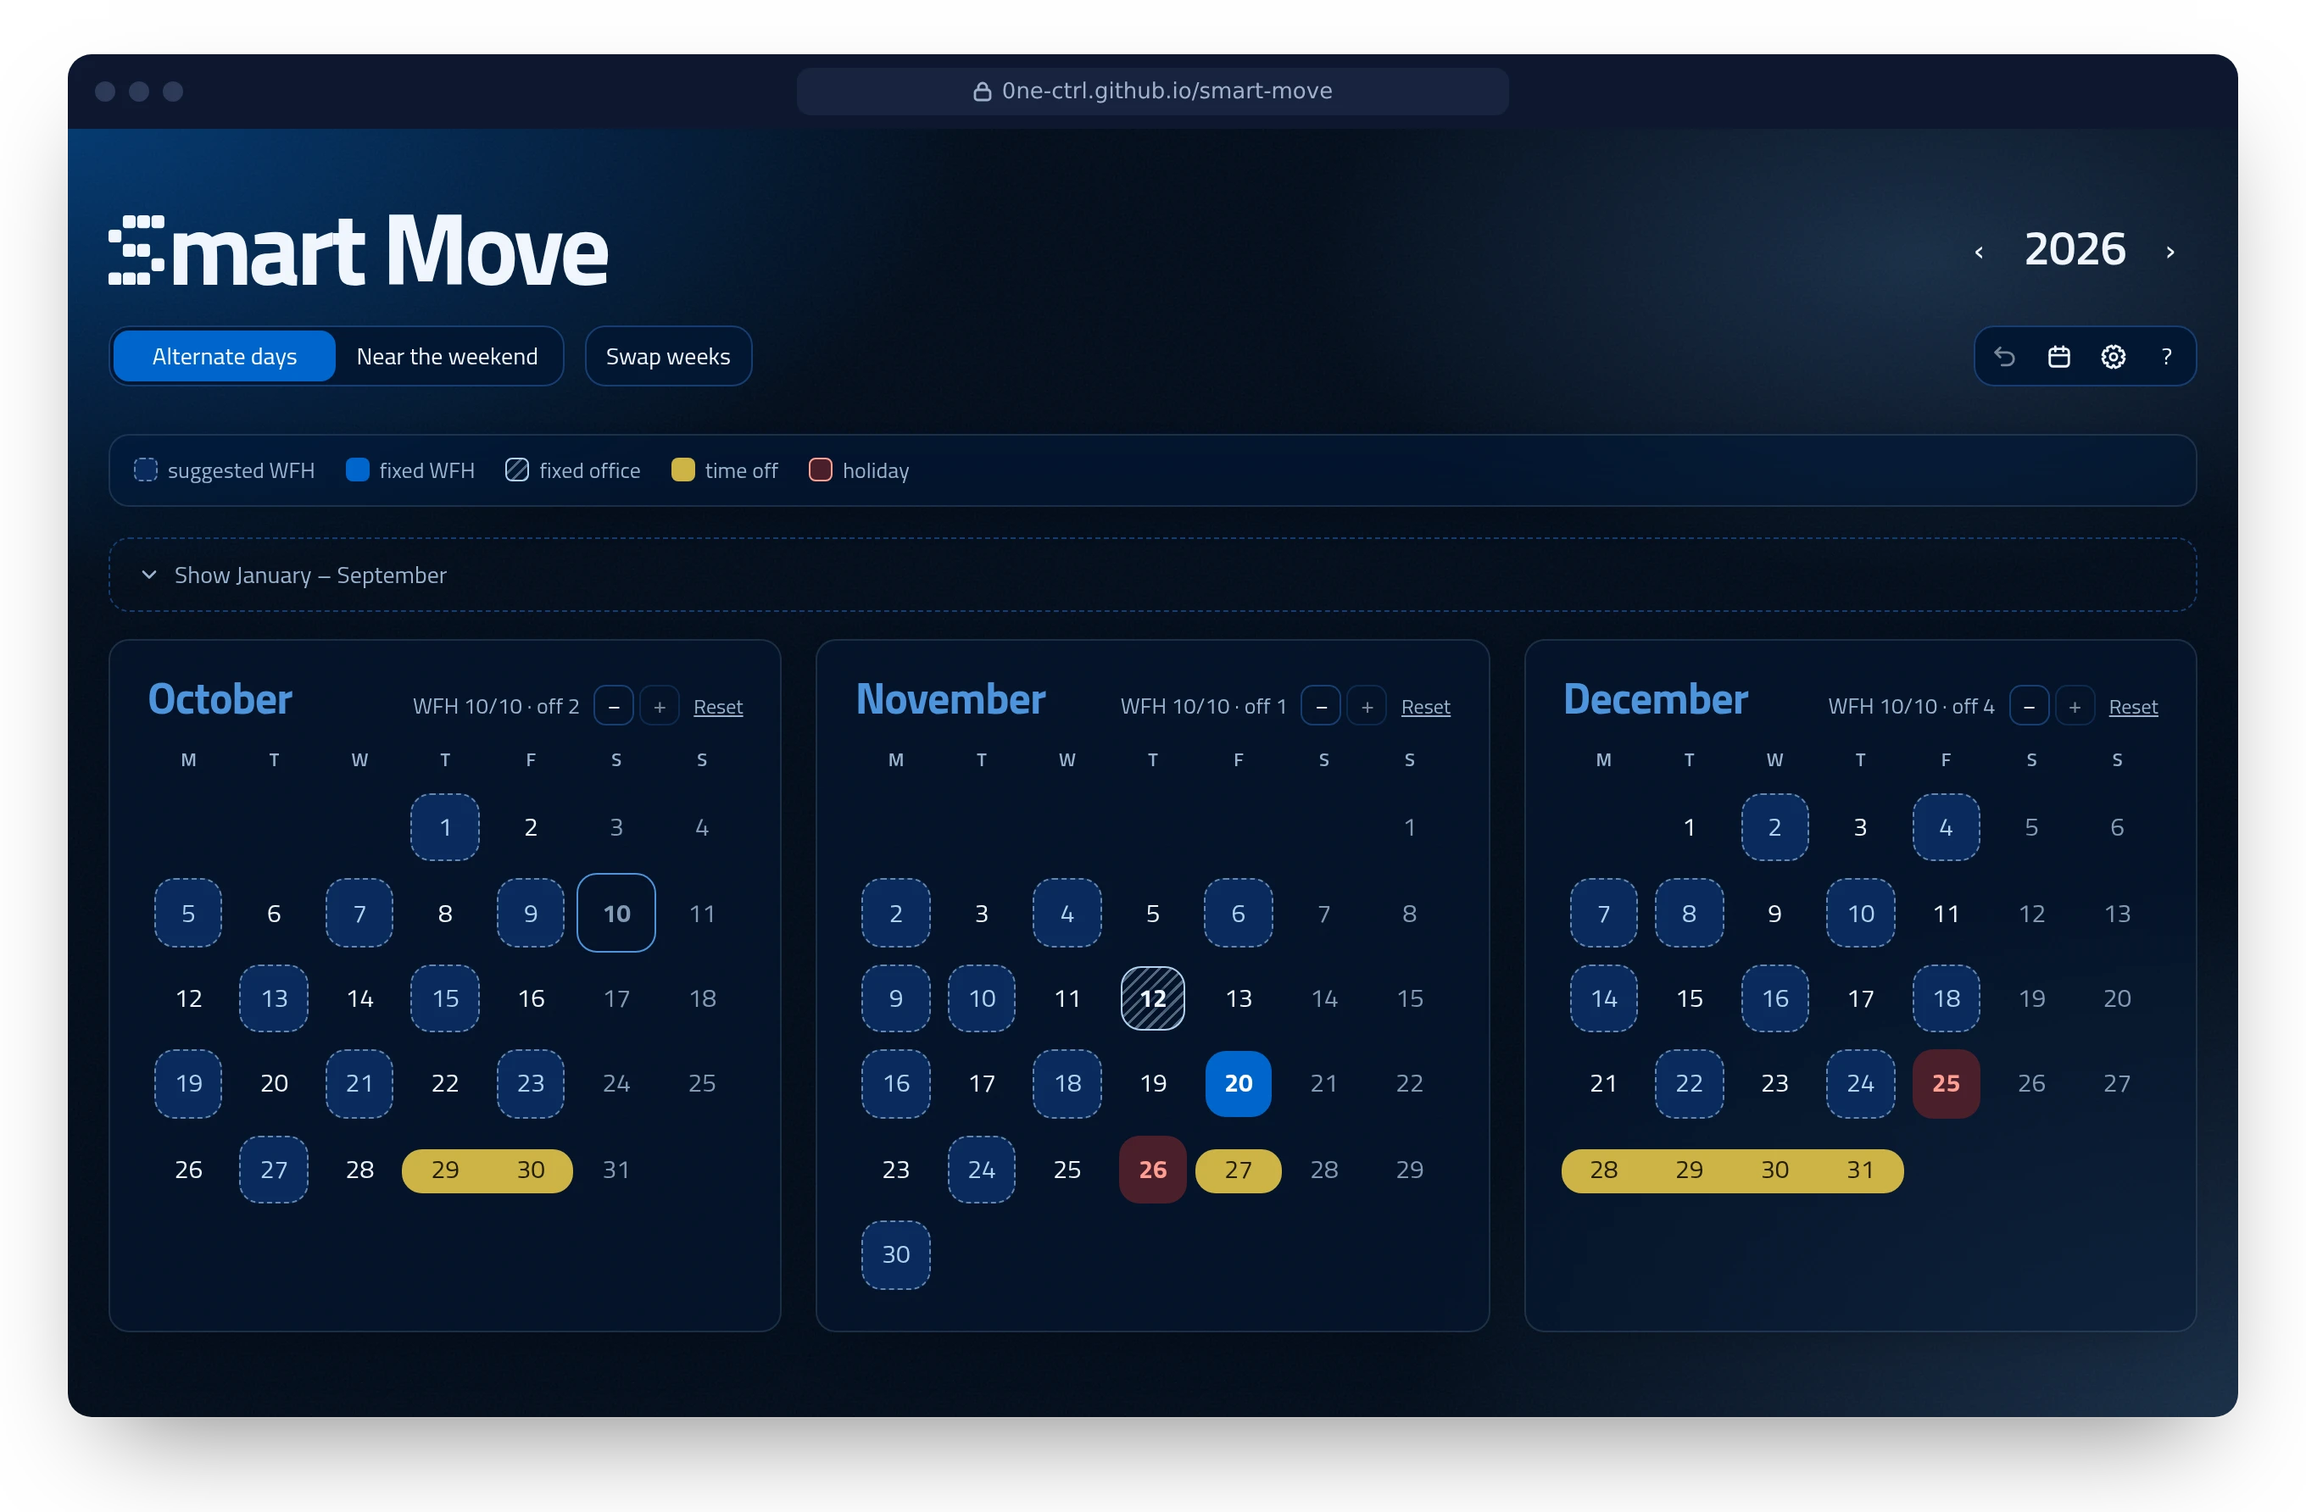
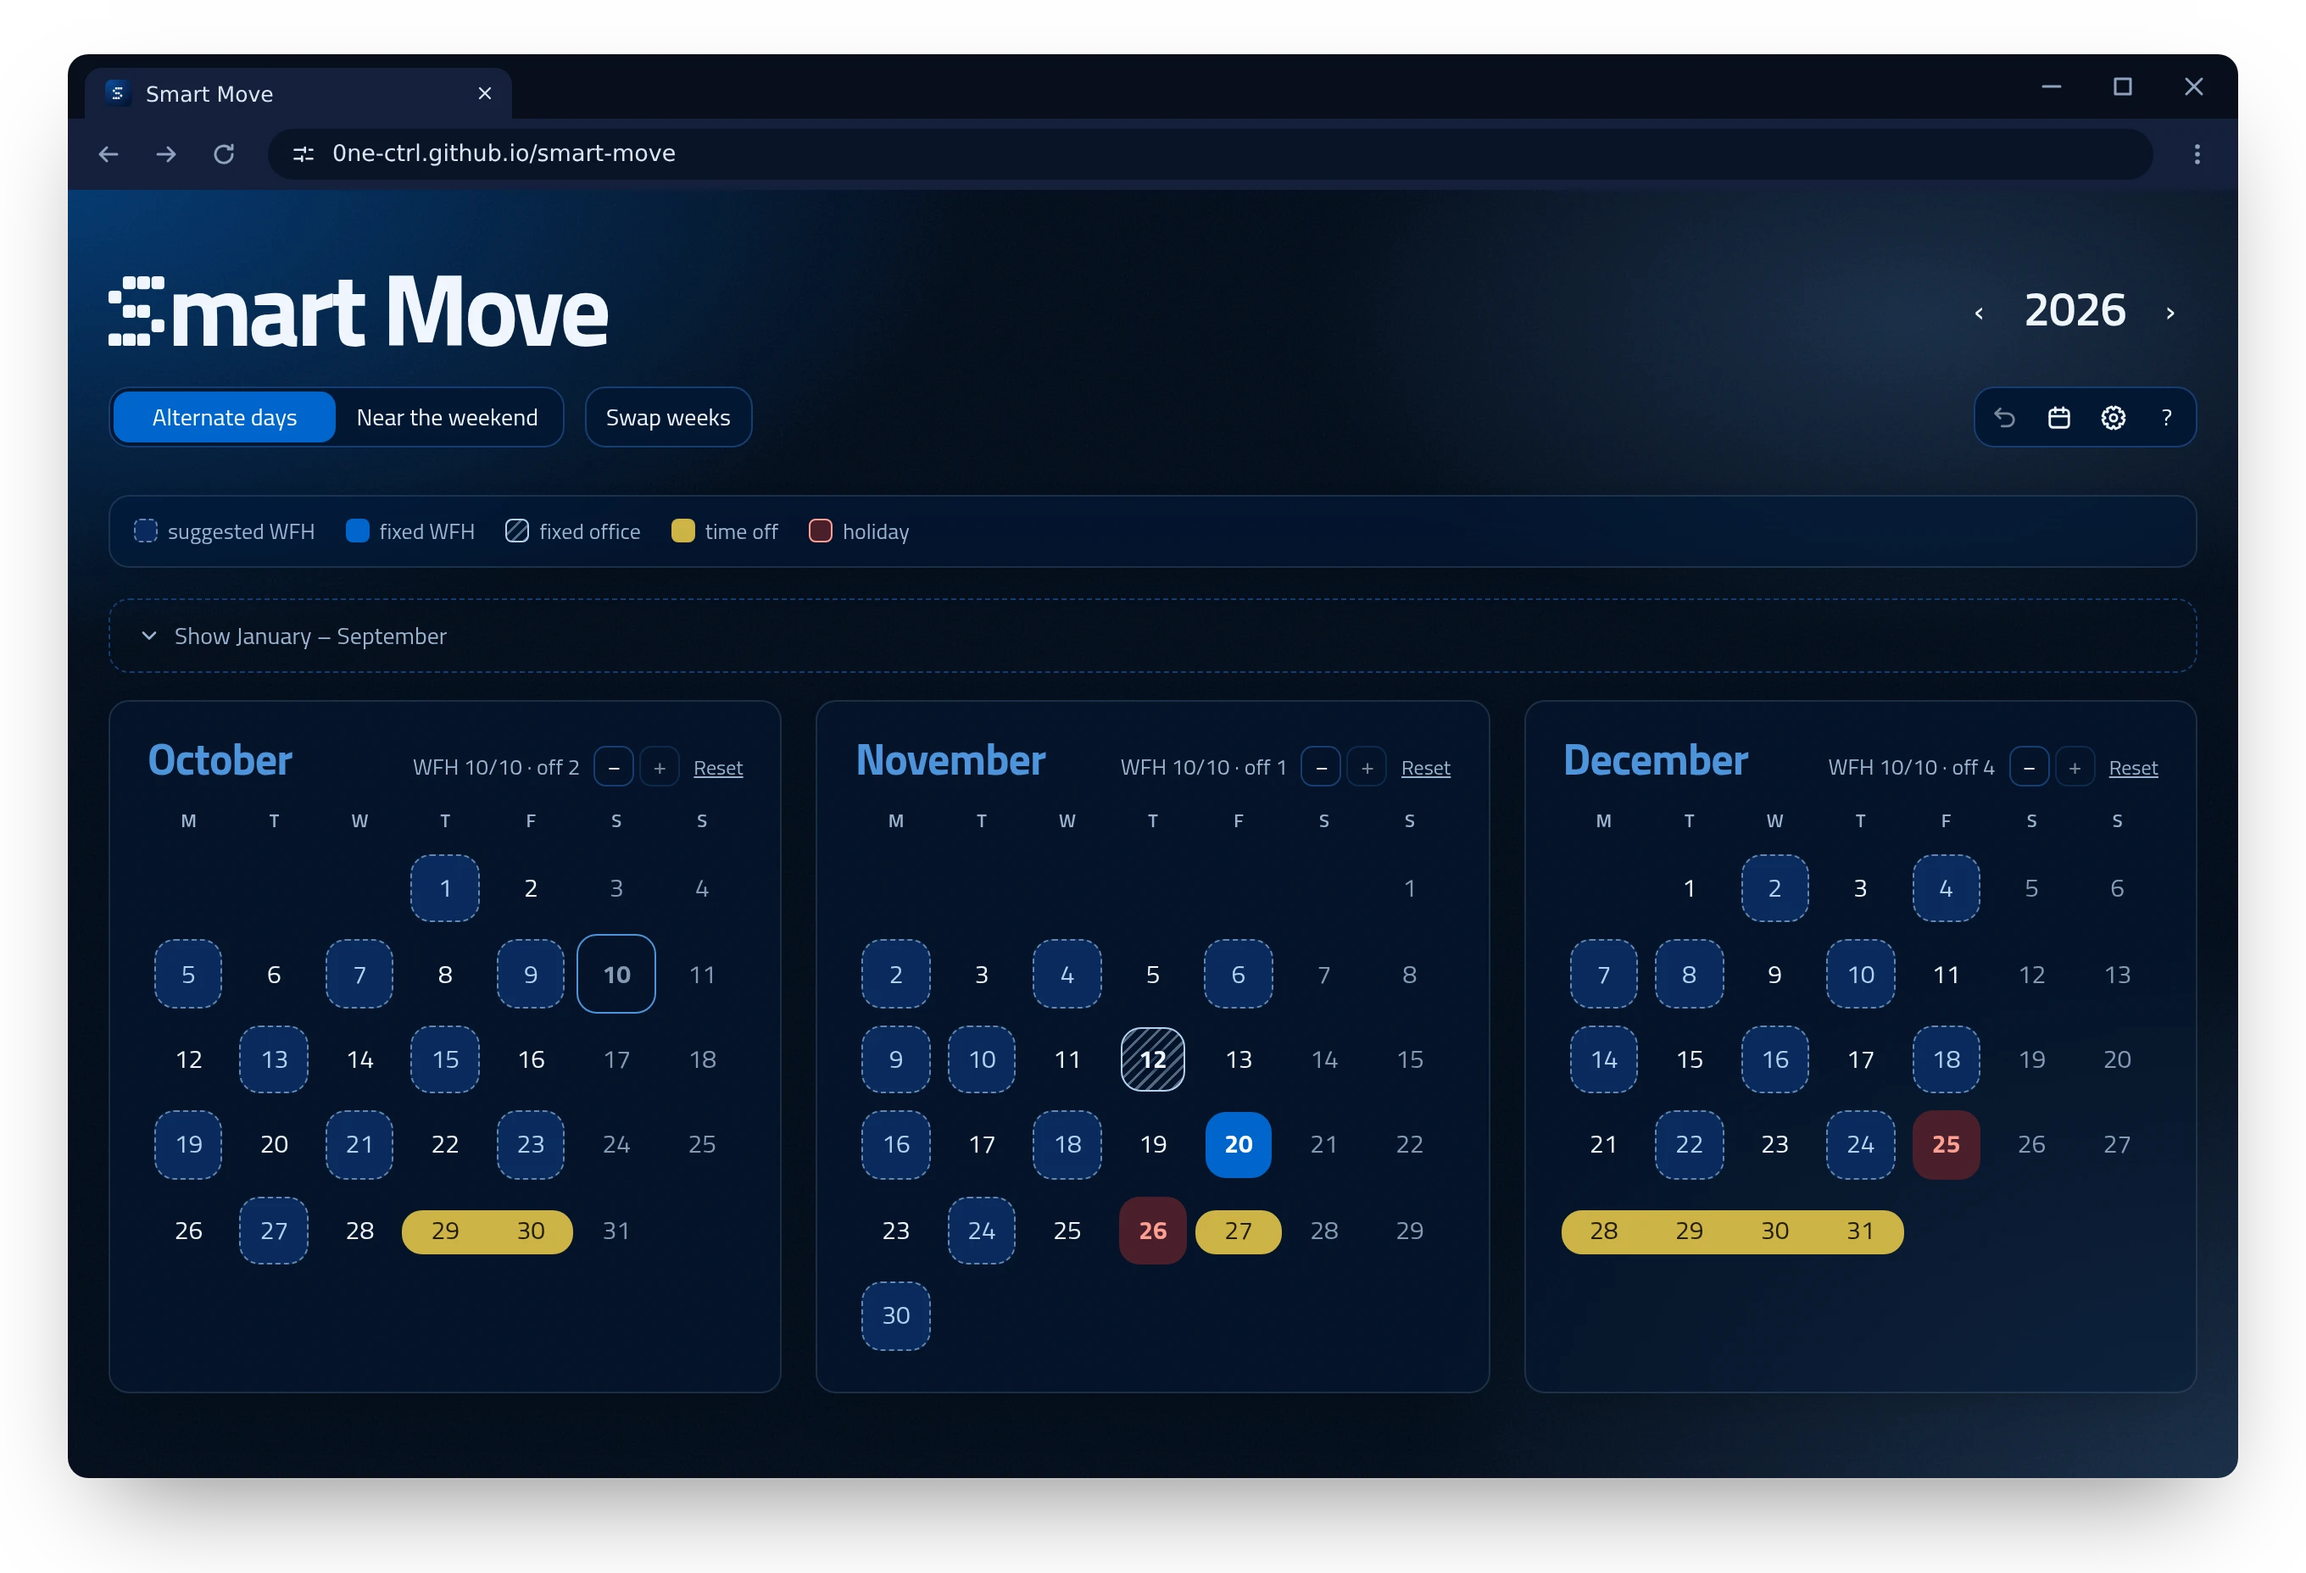
README: cornice del browser in stile Chrome, telefono con barra di stato a parte
Browser: schede, frecce, barra dell'indirizzo e menu al posto dei pallini.
Telefono: barra di stato più alta in un suo spazio (come Chrome su Android), così il titolo
non la tocca; foro della fotocamera più grande, batteria al 67%.

diff --git a/scripts/frame.html b/scripts/frame.html
@@ -6,37 +6,52 @@
   #f { display: inline-block; padding: 32px 40px 56px; }
   img { display: block; }
 
-  /* finestra del browser */
-  .browser { border-radius: 14px; overflow: hidden; box-shadow: 0 0 0 1px var(--edge), 0 28px 60px -24px rgb(0 0 0 / .5); }
-  .bar { height: 44px; display: flex; align-items: center; gap: 8px; padding: 0 16px; background: var(--bar); }
-  .dot { width: 12px; height: 12px; border-radius: 50%; background: var(--dot); }
-  .url { margin: 0 auto; translate: -30px 0; width: 420px; height: 28px; border-radius: 8px; background: var(--pill);
-    color: var(--text); font-size: 13px; display: flex; align-items: center; justify-content: center; gap: 6px; }
-  .light { --bar: #e7ecf4; --pill: #fff; --dot: #c3ccd9; --text: #4a5a75; --edge: rgb(0 20 60 / .14); }
-  .dark { --bar: #0e1830; --pill: #18243f; --dot: #2c3a58; --text: #9fb0cc; --edge: rgb(255 255 255 / .1); }
+  /* finestra di un browser generico in stile Chrome: schede in alto, poi barra con frecce, indirizzo e menu */
+  .browser { border-radius: 12px; overflow: hidden; box-shadow: 0 0 0 1px var(--edge), 0 28px 60px -24px rgb(0 0 0 / .5); color: var(--text); }
+  .tabs { height: 38px; display: flex; align-items: flex-end; padding: 0 10px; background: var(--strip); }
+  .tab { width: 230px; height: 30px; display: flex; align-items: center; gap: 8px; padding: 0 10px 0 12px; border-radius: 10px 10px 0 0;
+    background: var(--bar); font-size: 12.5px; color: var(--strong); }
+  .tab img { width: 16px; height: 16px; border-radius: 3px; }
+  .tab span { flex: 1; }
+  .win { margin-left: auto; align-self: center; display: flex; gap: 26px; padding-right: 8px; }
+  .tool { height: 42px; display: flex; align-items: center; gap: 18px; padding: 0 16px; background: var(--bar); }
+  .url { flex: 1; height: 30px; border-radius: 15px; background: var(--pill); display: flex; align-items: center; gap: 10px;
+    padding: 0 14px; font-size: 13.5px; color: var(--strong); }
+  svg { flex: none; }
+  .light { --strip: #dfe5ee; --bar: #fff; --pill: #eef2f7; --text: #5b6b85; --strong: #1f2a3d; --edge: rgb(0 20 60 / .14); }
+  .dark { --strip: #070e1c; --bar: #13203a; --pill: #0a1427; --text: #8fa1bf; --strong: #dbe5f5; --edge: rgb(255 255 255 / .1); }
 
   /* telefono Android generico: cornice sottile, foro della fotocamera, tasti sul lato destro */
   .phone { position: relative; padding: 12px; border-radius: 58px; background: #111214;
     box-shadow: inset 0 0 0 2px #2e2f33, 0 0 0 1.5px #4a4b50, 0 34px 70px -26px rgb(0 0 0 / .55); }
-  .phone img { border-radius: 46px; }
+  /* schermo: sopra la barra di stato nel colore theme-color del tema scuro (come Chrome su Android), sotto la pagina, tagliata in fondo */
+  .screen { width: 390px; height: 844px; padding-top: 44px; box-sizing: border-box; border-radius: 46px; overflow: hidden; background: #010b1a; }
   .btn { position: absolute; right: -4px; width: 4px; border-radius: 0 3px 3px 0; background: #3a3b40; }
-  .hole { position: absolute; top: 24px; left: 50%; width: 12px; height: 12px; translate: -50% 0; border-radius: 50%;
+  .hole { position: absolute; top: 26px; left: 50%; width: 16px; height: 16px; translate: -50% 0; border-radius: 50%;
     background: #000; box-shadow: 0 0 0 1.5px #1c1d21; }
-  .status { position: absolute; top: 12px; left: 12px; right: 12px; height: 36px; padding: 0 30px; display: flex;
+  .status { position: absolute; top: 12px; left: 12px; right: 12px; height: 44px; padding: 0 30px; display: flex;
     align-items: center; justify-content: space-between; color: #fff; font-size: 14px; font-weight: 600; }
+  .right { display: flex; align-items: center; gap: 6px; } /* batteria al 67%: piccolo easter egg */
 </style>
 <div id="f"></div>
 <script>
+  // icona a tratto 16×16 (frecce, ricarica, finestra)
+  const icon = (d, size = 16) => `<svg width="${size}" height="${size}" viewBox="0 0 16 16" fill="none" stroke="currentColor" stroke-width="1.5" stroke-linecap="round" stroke-linejoin="round"><path d="${d}"/></svg>`;
   // Disegna la cornice attorno all'immagine e aspetta che sia caricata
   window.frame = (kind, theme, src, w) => {
     const img = `<img src="${src}" width="${w}">`;
     f.innerHTML = kind === 'phone'
-      ? `<div class="phone">${img}<div class="btn" style="top:170px;height:64px"></div><div class="btn" style="top:260px;height:112px"></div>
+      ? `<div class="phone"><div class="screen">${img}</div><div class="btn" style="top:170px;height:64px"></div><div class="btn" style="top:260px;height:112px"></div>
           <div class="hole"></div><div class="status"><span>10:00</span>
-          <svg width="40" height="14" viewBox="0 0 40 14" fill="#fff"><path d="M1 12h2v-2H1zM5 12h2V8H5zM9 12h2V5H9zM13 12h2V2h-2z"/>
-          <rect x="21.5" y="2.5" width="15" height="9" rx="2" fill="none" stroke="#fff"/><rect x="23" y="4" width="10" height="6" rx="1"/><rect x="37" y="5" width="1.6" height="4" rx=".8"/></svg></div></div>`
-      : `<div class="browser ${theme}"><div class="bar"><i class="dot"></i><i class="dot"></i><i class="dot"></i>
-          <div class="url"><svg width="11" height="12" viewBox="0 0 11 12" fill="none" stroke="currentColor" stroke-width="1.4"><rect x="1" y="5" width="9" height="6" rx="1.5"/><path d="M3 5V3.5a2.5 2.5 0 0 1 5 0V5"/></svg>0ne-ctrl.github.io/smart-move</div></div>${img}</div>`;
+          <span class="right"><svg width="16" height="14" viewBox="0 0 16 14" fill="#fff"><path d="M1 12h2v-2H1zM5 12h2V8H5zM9 12h2V5H9zM13 12h2V2h-2z"/></svg>
+          <svg width="18" height="14" viewBox="0 0 18 14" fill="#fff"><rect x=".5" y="2.5" width="15" height="9" rx="2" fill="none" stroke="#fff"/><rect x="2" y="4" width="8" height="6" rx="1"/><rect x="16" y="5" width="1.6" height="4" rx=".8"/></svg>67%</span></div></div>`
+      : `<div class="browser ${theme}">
+          <div class="tabs"><div class="tab"><img src="../icons/icon.svg" alt=""><span>Smart Move</span>${icon('M4 4l8 8M12 4l-8 8', 12)}</div>
+            <div class="win">${icon('M3 8h10')}${icon('M3.5 3.5h9v9h-9z')}${icon('M3.5 3.5l9 9M12.5 3.5l-9 9')}</div></div>
+          <div class="tool">${icon('M13 8H3M7 4L3 8l4 4')}${icon('M3 8h10M9 4l4 4-4 4')}${icon('M13 8a5 5 0 1 1-1.5-3.5M13 2.5V5h-2.5')}
+            <div class="url">${icon('M2 5h7M2 11h5M12 5h2M10 11h4M9 3.5v3M7 9.5v3', 14)}0ne-ctrl.github.io/smart-move</div>
+            <svg width="16" height="16" viewBox="0 0 16 16" fill="currentColor"><circle cx="8" cy="3.5" r="1.4"/><circle cx="8" cy="8" r="1.4"/><circle cx="8" cy="12.5" r="1.4"/></svg></div>
+          ${img}</div>`;
     return f.querySelector('img').decode();
   };
 </script>

diff --git a/CLAUDE.md b/CLAUDE.md
@@ -52,7 +52,7 @@ Pezzi principali:
 Per i flussi nel browser (onboarding, click, reset) c'è Chromium in flatpak (`org.chromium.Chromium`), con la pagina servita da `python3 -m http.server`. `--dump-dom` non va bene, perché in quella modalità il `<dialog>` non emette l'evento `close`. Meglio pilotarlo via DevTools: `--headless=new --remote-debugging-port=…` più uno script Node che usa `WebSocket`/`fetch` nativi.
 
 ## Screenshot del README
-`node scripts/screenshots.mjs` (sull'host, nessuna dipendenza) rifà tutte le immagini di `docs/` e `docs/en/`: i ritagli `menu.png`, `export.png`, `onboarding.png` e le schermate intere in cornice (`desktop-light|dark.webp` in una finestra di browser, `mobile.webp` in un telefono Android generico, disegnate da `scripts/frame.html`, WebP con angoli trasparenti). Avvia da solo `python3 -m http.server` e il Chromium flatpak (altro Chromium: `CHROME=…`), con data finta 10/10/2026 e dati di esempio fissi, e alla fine li chiude. Da rilanciare dopo ogni modifica visibile dell'interfaccia. `scripts/` non fa parte del sito (non va in `FILES`).
+`node scripts/screenshots.mjs` (sull'host, nessuna dipendenza) rifà tutte le immagini di `docs/` e `docs/en/`: i ritagli `menu.png`, `export.png`, `onboarding.png` e le schermate intere in cornice (`desktop-light|dark.webp` in una finestra di browser generico in stile Chrome, `mobile.webp` in un telefono Android generico con barra di stato a parte (batteria al 67%), disegnate da `scripts/frame.html`, WebP con angoli trasparenti). Avvia da solo `python3 -m http.server` e il Chromium flatpak (altro Chromium: `CHROME=…`), con data finta 10/10/2026 e dati di esempio fissi, e alla fine li chiude. Da rilanciare dopo ogni modifica visibile dell'interfaccia. `scripts/` non fa parte del sito (non va in `FILES`).
 
 ## Video promo (`video/`)
 Progetto Remotion a parte (React, ha le sue dipendenze; in git senza `node_modules`, `out` e `public/sfx`): trailer `SmartMovePromo`, verticale 1080×1920, ~32 s (17 battute), montato sulla musica: 1 battito = 14 fotogrammi (`video/src/timing.ts`, da tenere uguale a `BEAT` e `BARS` in `scripts/suoni.mjs`; `Root.tsx` usa `END`; ogni composizione esiste anche in inglese, `SmartMovePromoEN`/`SmartMoveDemoEN`, con tutte le scritte in `video/src/i18n.ts`). Scene: domanda → drop con logo → demo con un solo calendario fisso, in 5 momenti da 2 battute (limiti scelti con −/+ e smart che cadono, ferie, due schemi, giorno fisso in ufficio, export in calendario) → chiusura. `video/src/plan.ts` importa la logica da `../../js/plan.js` (`allowJs` in `video/tsconfig.json`) e aggiunge solo i tipi (anche di `withWeekly`), `monthPlan` e `pickOrder`. Se cambi la firma di `planMonth` o `withWeekly`, aggiorna il cast dei tipi lì. I comandi Node vanno lanciati nel distrobox `remotion-box`:
